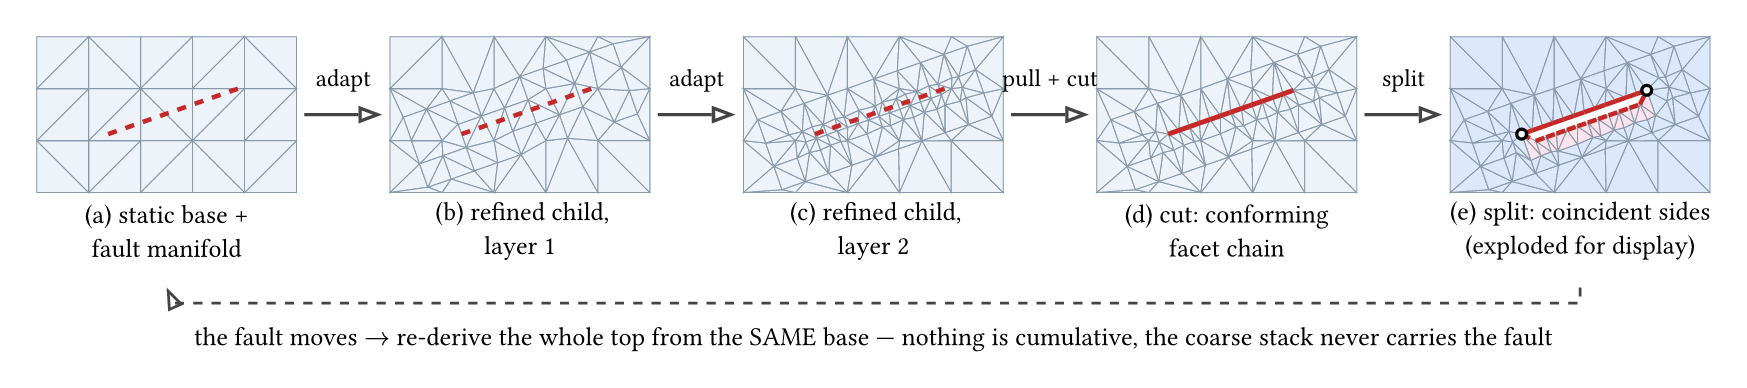
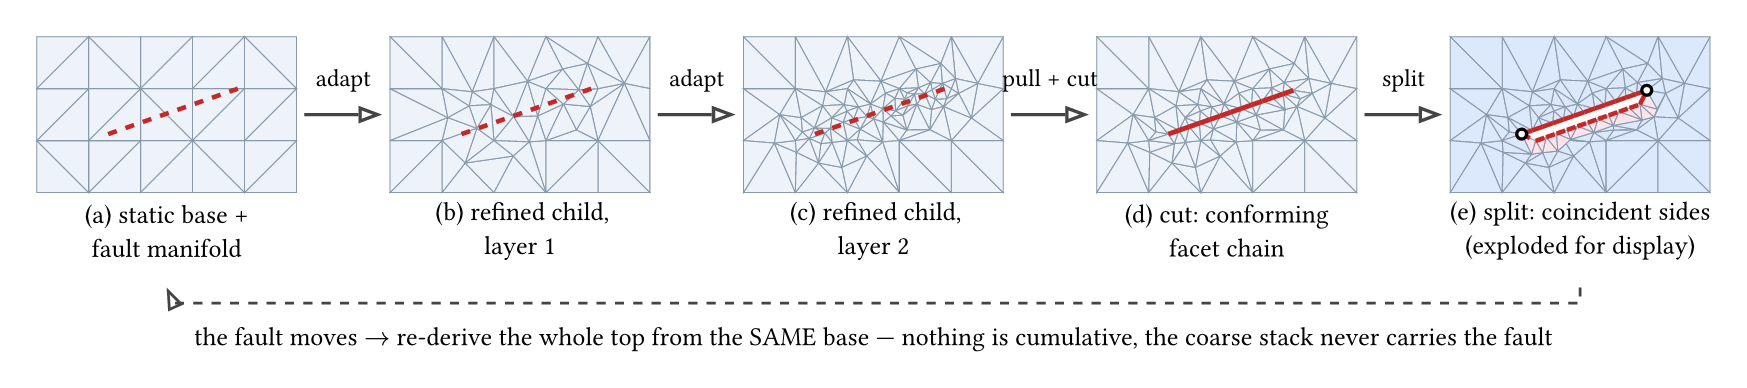
Stack-progression figure: refinement layers must not conform by accident
The band points were laid out in the fault's own frame, so layer 2
manufactured the conforming line before the cut had anything to do —
and clearing the corridor around it left visibly lopsided flanks.
Refinement points now come from an axis-aligned lattice with
deterministic jitter, restricted to the distance band: the layers
refine TOWARD the manifold without containing it, and the conforming
chain in the cut panel is unambiguously the cut's contribution.

Underworld development team with AI support from Claude Code

diff --git a/docs/developer/design/figures/split-node-faults/generate-stack-progression-data.py b/docs/developer/design/figures/split-node-faults/generate-stack-progression-data.py
@@ -33,13 +33,22 @@ def grid(h):
 
 
 def band(h, width):
-    """Points laid out along the fault frame within +-width of it."""
+    """Refinement points near the fault, deliberately NOT conforming to it:
+    an axis-aligned lattice with deterministic jitter, restricted to the
+    distance band. A real adapted mesh refines TOWARD the line without
+    containing it — the conforming chain must be visibly the CUT's
+    contribution, not an accident of the refinement layout."""
     out = []
-    for s in np.arange(-2 * h, LEN + 2 * h + 1e-9, h):
-        for d in np.arange(-width, width + 1e-9, h):
-            p = A + s * T + d * N
-            if 0.02 < p[0] < 1.98 and 0.02 < p[1] < 1.18:
-                out.append(p)
+    xs = np.arange(0.06, 1.95, h)
+    ys = np.arange(0.06, 1.15, h)
+    for i, x in enumerate(xs):
+        for j, y in enumerate(ys):
+            q = np.array([
+                x + 0.33 * h * np.sin(12.9898 * i + 78.233 * j),
+                y + 0.33 * h * np.sin(39.3460 * i + 11.135 * j)])
+            if (seg_dist(q) < width
+                    and 0.03 < q[0] < 1.97 and 0.03 < q[1] < 1.17):
+                out.append(q)
     return np.array(out)
 
 
